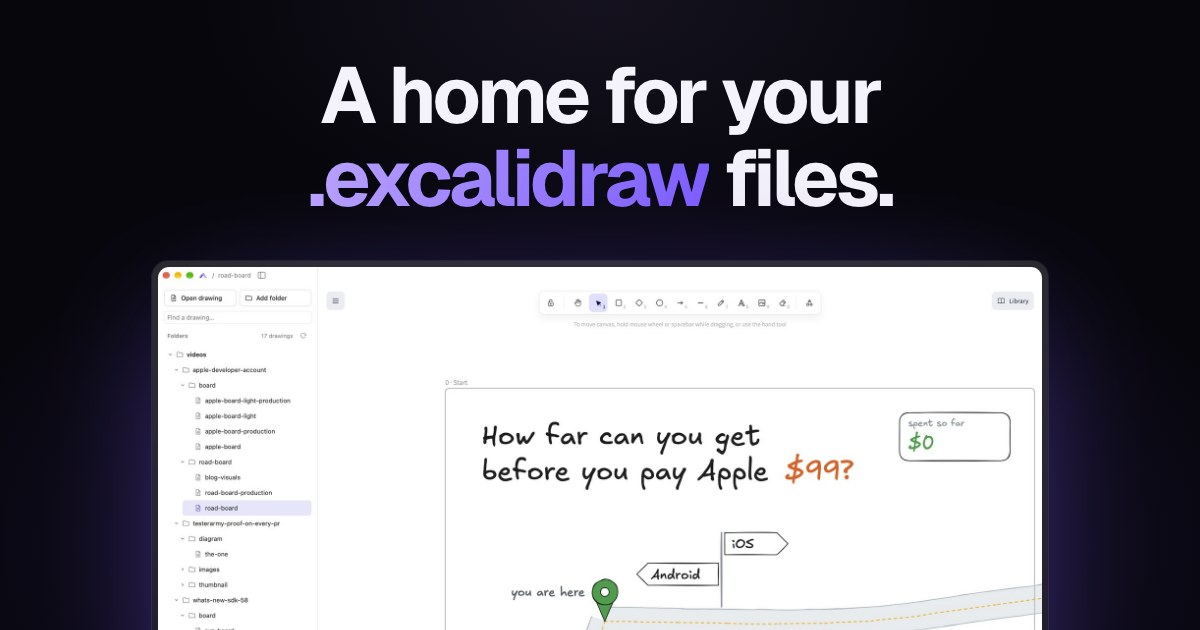
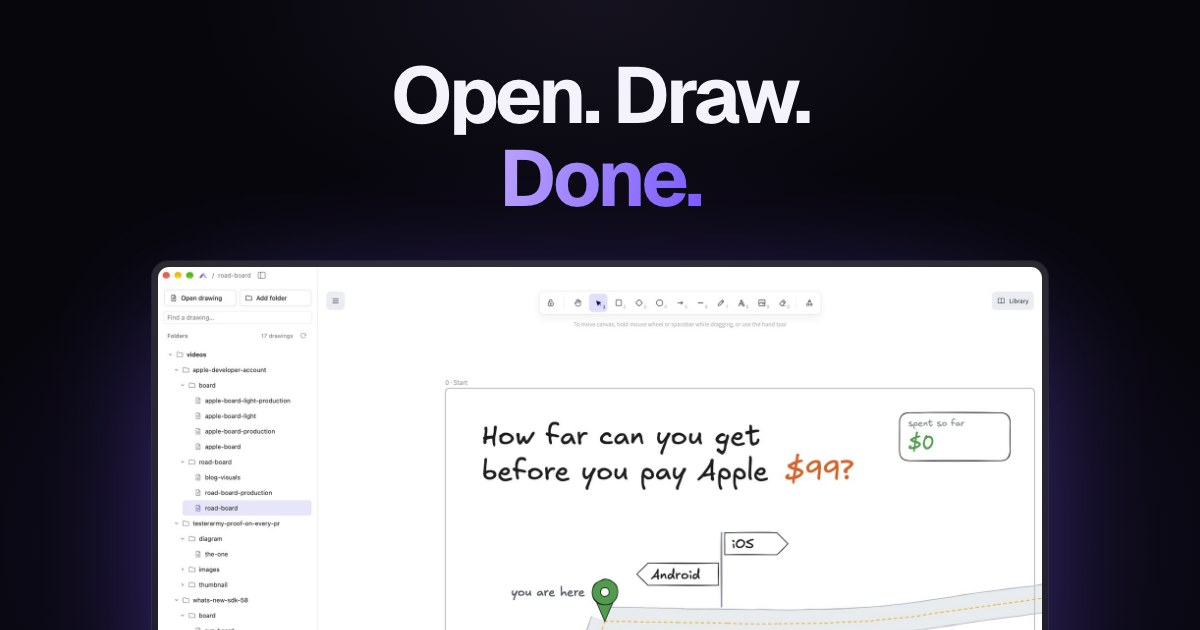
feat: refocus the exact draw site on simple, lightweight and fast

Changed region(s): [[0.2467, 0.0905, 0.74, 0.3317]]

diff --git a/website/src/index.html b/website/src/index.html
@@ -3,15 +3,15 @@
   <head>
     <meta charset="utf-8" />
     <meta name="viewport" content="width=device-width, initial-scale=1, viewport-fit=cover" />
-    <title>Exact Draw: a home for your .excalidraw files</title>
-    <meta name="description" content="Exact Draw is a Mac app for your Excalidraw files. Open drawings where they live, edit them on the Excalidraw canvas, and see changes from other tools right away." />
+    <title>Exact Draw: open, draw, done</title>
+    <meta name="description" content="Exact Draw is a simple Mac app for your .excalidraw files. Click a drawing and it opens. Draw and it saves. No account, no cloud, no import." />
     <meta name="theme-color" content="#07060c" />
     <meta name="color-scheme" content="dark" />
     <link rel="canonical" href="https://draw.orbitlabs.studio/" />
     <meta property="og:type" content="website" />
     <meta property="og:url" content="https://draw.orbitlabs.studio/" />
-    <meta property="og:title" content="Exact Draw: a home for your .excalidraw files" />
-    <meta property="og:description" content="A Mac app for the Excalidraw files in your own folders. Early access waitlist open." />
+    <meta property="og:title" content="Exact Draw: open, draw, done" />
+    <meta property="og:description" content="A simple Mac app for your .excalidraw files. No account, no cloud, no import. Mac waitlist open." />
     <meta property="og:image" content="https://draw.orbitlabs.studio/share.jpg" />
     <meta name="twitter:card" content="summary_large_image" />
     <link rel="icon" type="image/png" href="./img/icon-64.png" />
@@ -37,10 +37,10 @@
       <section class="hero" aria-labelledby="hero-title">
         <div class="hero-copy">
           <p class="badge reveal" style="--d: 0"><span class="badge-dot"></span>Early access for Mac</p>
-          <h1 id="hero-title" class="reveal" style="--d: 1">A home for your<br /><span class="ext">.excalidraw</span> files.</h1>
+          <h1 id="hero-title" class="reveal" style="--d: 1">Open. Draw.<br /><span class="accent">Done.</span></h1>
           <p class="lead reveal" style="--d: 2">
-            Open drawings where they live. Edit them on the Excalidraw canvas. See changes from other
-            tools right away.
+            A simple Mac app for your .excalidraw files. Click a drawing and it
+            opens. Draw and it saves.
           </p>
           <div class="actions reveal" style="--d: 3">
             <button type="button" class="button primary" data-waitlist-open>
@@ -65,51 +65,51 @@
         </figure>
       </section>
 
-      <section class="statement" aria-label="How it is meant to be used">
-        <p class="lit" data-lit>Your AI agent edits the drawing. You watch it change. Then it's your turn.</p>
+      <section class="statement" aria-label="What it leaves out">
+        <p class="lit" data-lit>No&nbsp;account. No&nbsp;cloud. No&nbsp;import. Your&nbsp;files and&nbsp;a&nbsp;canvas.</p>
       </section>
 
       <section id="why" class="why" aria-labelledby="why-title">
-        <h2 id="why-title" class="observe">Plain files. A real canvas.</h2>
+        <h2 id="why-title" class="observe">Does the job. Nothing more.</h2>
         <div class="cards">
           <article class="card observe" style="--d: 1">
             <div class="card-art" aria-hidden="true">
               <div class="tree">
-                <span class="row"><i class="folder"></i>videos</span>
-                <span class="row in"><i class="folder"></i>board</span>
-                <span class="row in2 on"><i class="file"></i>sdk58-board</span>
-                <span class="row in2"><i class="file"></i>run-board</span>
+                <span class="row"><i class="folder"></i>projects</span>
+                <span class="row in"><i class="folder"></i>docs</span>
+                <span class="row in2 on"><i class="file"></i>architecture</span>
+                <span class="row in2"><i class="file"></i>user-flow</span>
               </div>
             </div>
-            <h3>Your folders</h3>
-            <p>Add any folder. Only drawings show up.</p>
+            <h3>Just drawings</h3>
+            <p>Add a folder. Only drawings show up.</p>
           </article>
           <article class="card observe" style="--d: 2">
             <div class="card-art" aria-hidden="true">
               <div class="live">
                 <svg class="sketch" viewBox="0 0 200 110"><path d="M12 14c58-4 118-3 176 2 2 26 1 54-2 80-58 3-116 4-172-1-3-27-4-54-2-81Z" /><path d="M40 72c22-14 44-18 66-8s40 6 56-10" /></svg>
-                <span class="live-note"><span class="pulse"></span>updated on disk</span>
+                <span class="live-note"><span class="pulse"></span>saved</span>
               </div>
             </div>
-            <h3>Live from disk</h3>
-            <p>Edits from other tools appear without a reload.</p>
+            <h3>Saves itself</h3>
+            <p>Every change goes back to the same file.</p>
           </article>
           <article class="card observe" style="--d: 3">
             <div class="card-art" aria-hidden="true">
-              <div class="saves">
-                <span class="save no">Save over newer file<b>refused</b></span>
-                <span class="save yes">Your edits<b>kept</b></span>
+              <div class="keys">
+                <kbd class="key">⌘</kbd>
+                <kbd class="key on">B</kbd>
               </div>
             </div>
-            <h3>Safe saves</h3>
-            <p>No stale save writes over a newer file.</p>
+            <h3>Out of the way</h3>
+            <p>⌘B hides the sidebar. Then it's only the canvas.</p>
           </article>
         </div>
       </section>
 
       <section class="close" aria-labelledby="close-title">
         <img class="close-mark observe" src="./img/mark.png" alt="" width="120" height="110" />
-        <h2 id="close-title" class="observe" style="--d: 1">Draw where the work lives.</h2>
+        <h2 id="close-title" class="observe" style="--d: 1">Just draw.</h2>
         <div class="actions observe" style="--d: 2">
           <button type="button" class="button primary" data-waitlist-open>Join the Mac waitlist</button>
         </div>

diff --git a/website/src/styles.css b/website/src/styles.css
@@ -251,7 +251,7 @@ h1 {
   letter-spacing: -0.045em;
   text-wrap: balance;
 }
-h1 .ext {
+h1 .accent {
   background: linear-gradient(100deg, var(--lilac), var(--violet));
   -webkit-background-clip: text;
   background-clip: text;
@@ -405,6 +405,7 @@ h2 {
 .card p {
   margin: 0 0.35rem;
   color: var(--ink-muted);
+  text-wrap: pretty;
 }
 
 .tree {
@@ -491,39 +492,32 @@ h2 {
   }
 }
 
-.saves {
+.keys {
   display: flex;
-  flex-direction: column;
-  gap: 0.55rem;
-  width: min(100% - 2.4rem, 15rem);
-  font-size: 0.9rem;
+  gap: 0.7rem;
 }
-.save {
-  display: flex;
-  align-items: center;
-  justify-content: space-between;
-  gap: 0.8rem;
-  padding: 0.6rem 0.85rem;
-  border-radius: 0.75rem;
-  background: rgb(255 255 255 / 0.05);
+.key {
+  display: grid;
+  place-items: center;
+  width: 4.2rem;
+  height: 4.2rem;
+  border-radius: 1rem;
+  background: linear-gradient(180deg, rgb(255 255 255 / 0.1), rgb(255 255 255 / 0.03));
   border: 1px solid var(--hair);
-  color: var(--ink-soft);
+  box-shadow:
+    inset 0 1px 0 rgb(255 255 255 / 0.1),
+    0 4px 0 rgb(0 0 0 / 0.55);
+  font-family: inherit;
+  font-size: 1.6rem;
+  font-weight: 500;
+  color: var(--ink);
 }
-.save b {
-  font-family: var(--mono);
-  font-size: 0.74rem;
-  font-weight: 400;
-  letter-spacing: 0.06em;
-  text-transform: uppercase;
-}
-.save.no b {
-  color: #ff8d84;
-}
-.save.yes {
-  border-color: rgb(124 92 255 / 0.4);
-}
-.save.yes b {
-  color: var(--lilac);
+.key.on {
+  border-color: rgb(124 92 255 / 0.55);
+  box-shadow:
+    inset 0 1px 0 rgb(255 255 255 / 0.1),
+    0 4px 0 rgb(0 0 0 / 0.55),
+    0 0 28px -6px rgb(124 92 255 / 0.7);
 }
 
 .close {

diff --git a/website/src/main.js b/website/src/main.js
@@ -26,7 +26,8 @@ const windowEl = document.querySelector("[data-tilt]");
 const lit = document.querySelector("[data-lit]");
 const spans = [];
 if (lit) {
-  const words = lit.textContent.trim().split(/\s+/);
+  // split on plain spaces only, so non-breaking spaces keep word pairs together
+  const words = lit.textContent.trim().split(/[ \t\n]+/);
   lit.textContent = "";
   words.forEach((word, i) => {
     const span = document.createElement("span");
